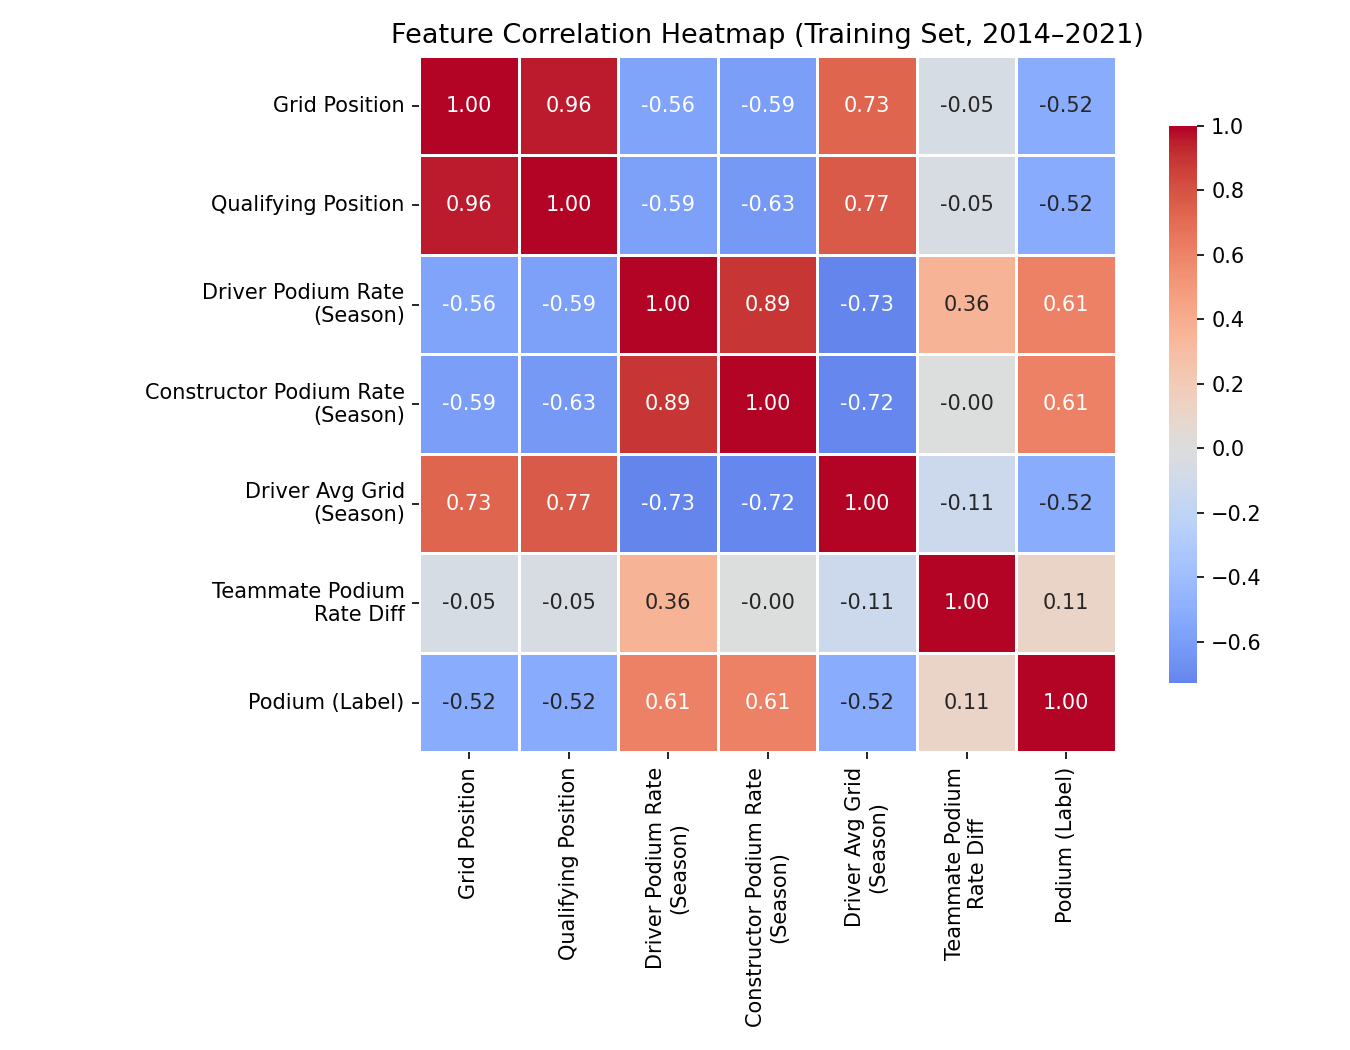
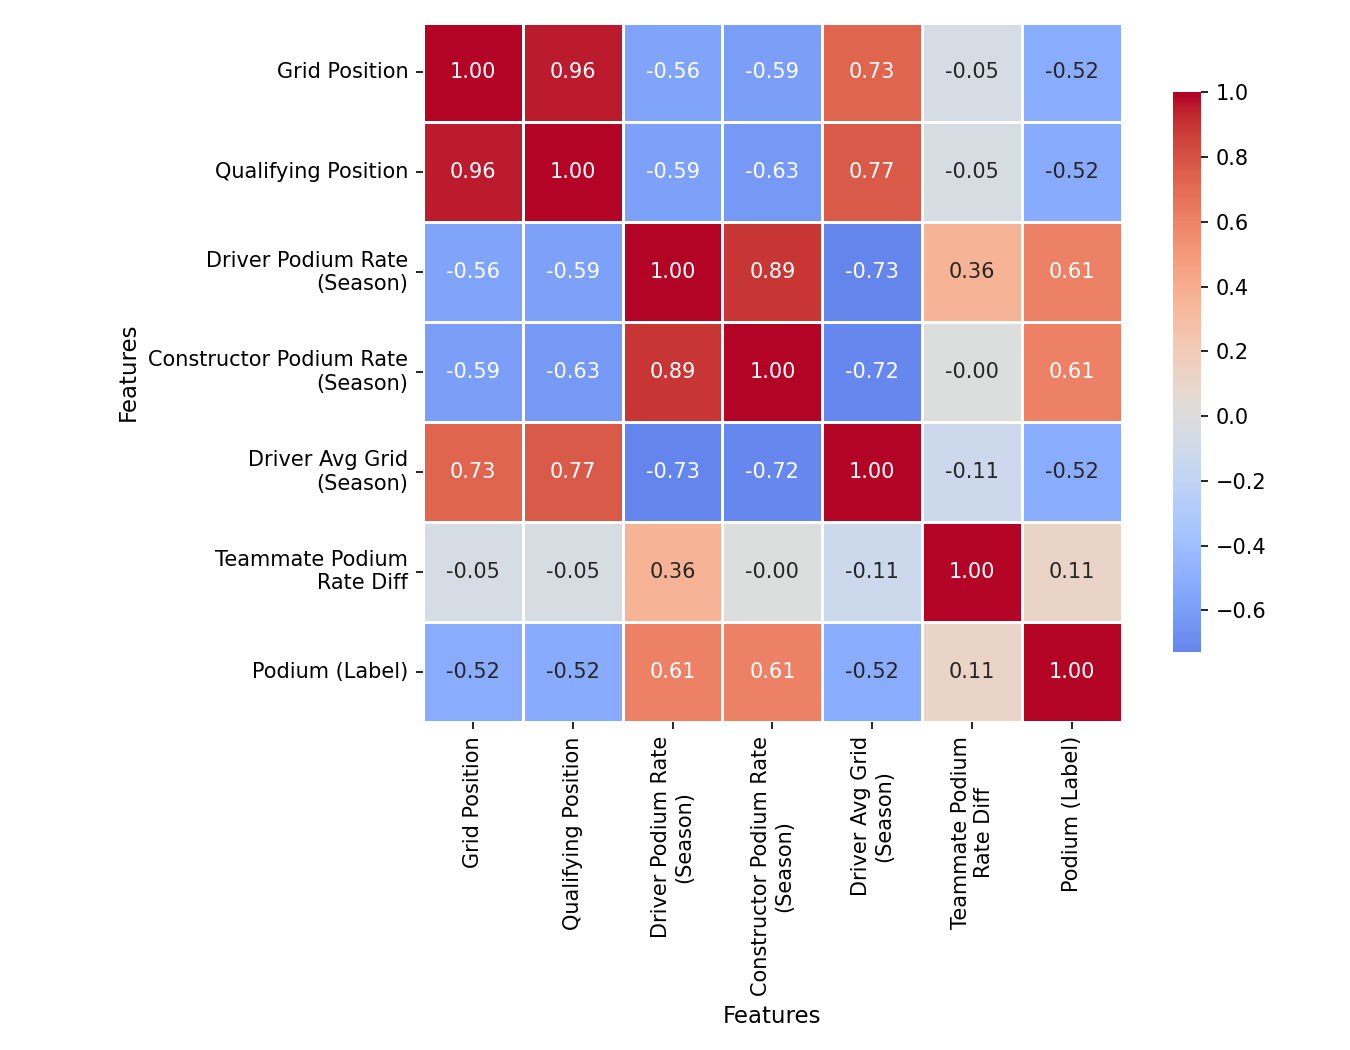
fixing x and y axis for heatmap

Changed region(s): [[0.0933, 0.0, 0.9333, 0.9752]]

diff --git a/src/heatmap.py b/src/heatmap.py
@@ -53,7 +53,8 @@ if __name__ == "__main__":
         ax=ax,
         cbar_kws={"shrink": 0.8},
     )
-    ax.set_title("Feature Correlation Heatmap (Training Set, 2014–2021)", fontsize=13)
+    ax.set_xlabel("Features", fontsize=11)
+    ax.set_ylabel("Features", fontsize=11)
     plt.tight_layout()
 
     os.makedirs(RESULTS_DIR, exist_ok=True)
